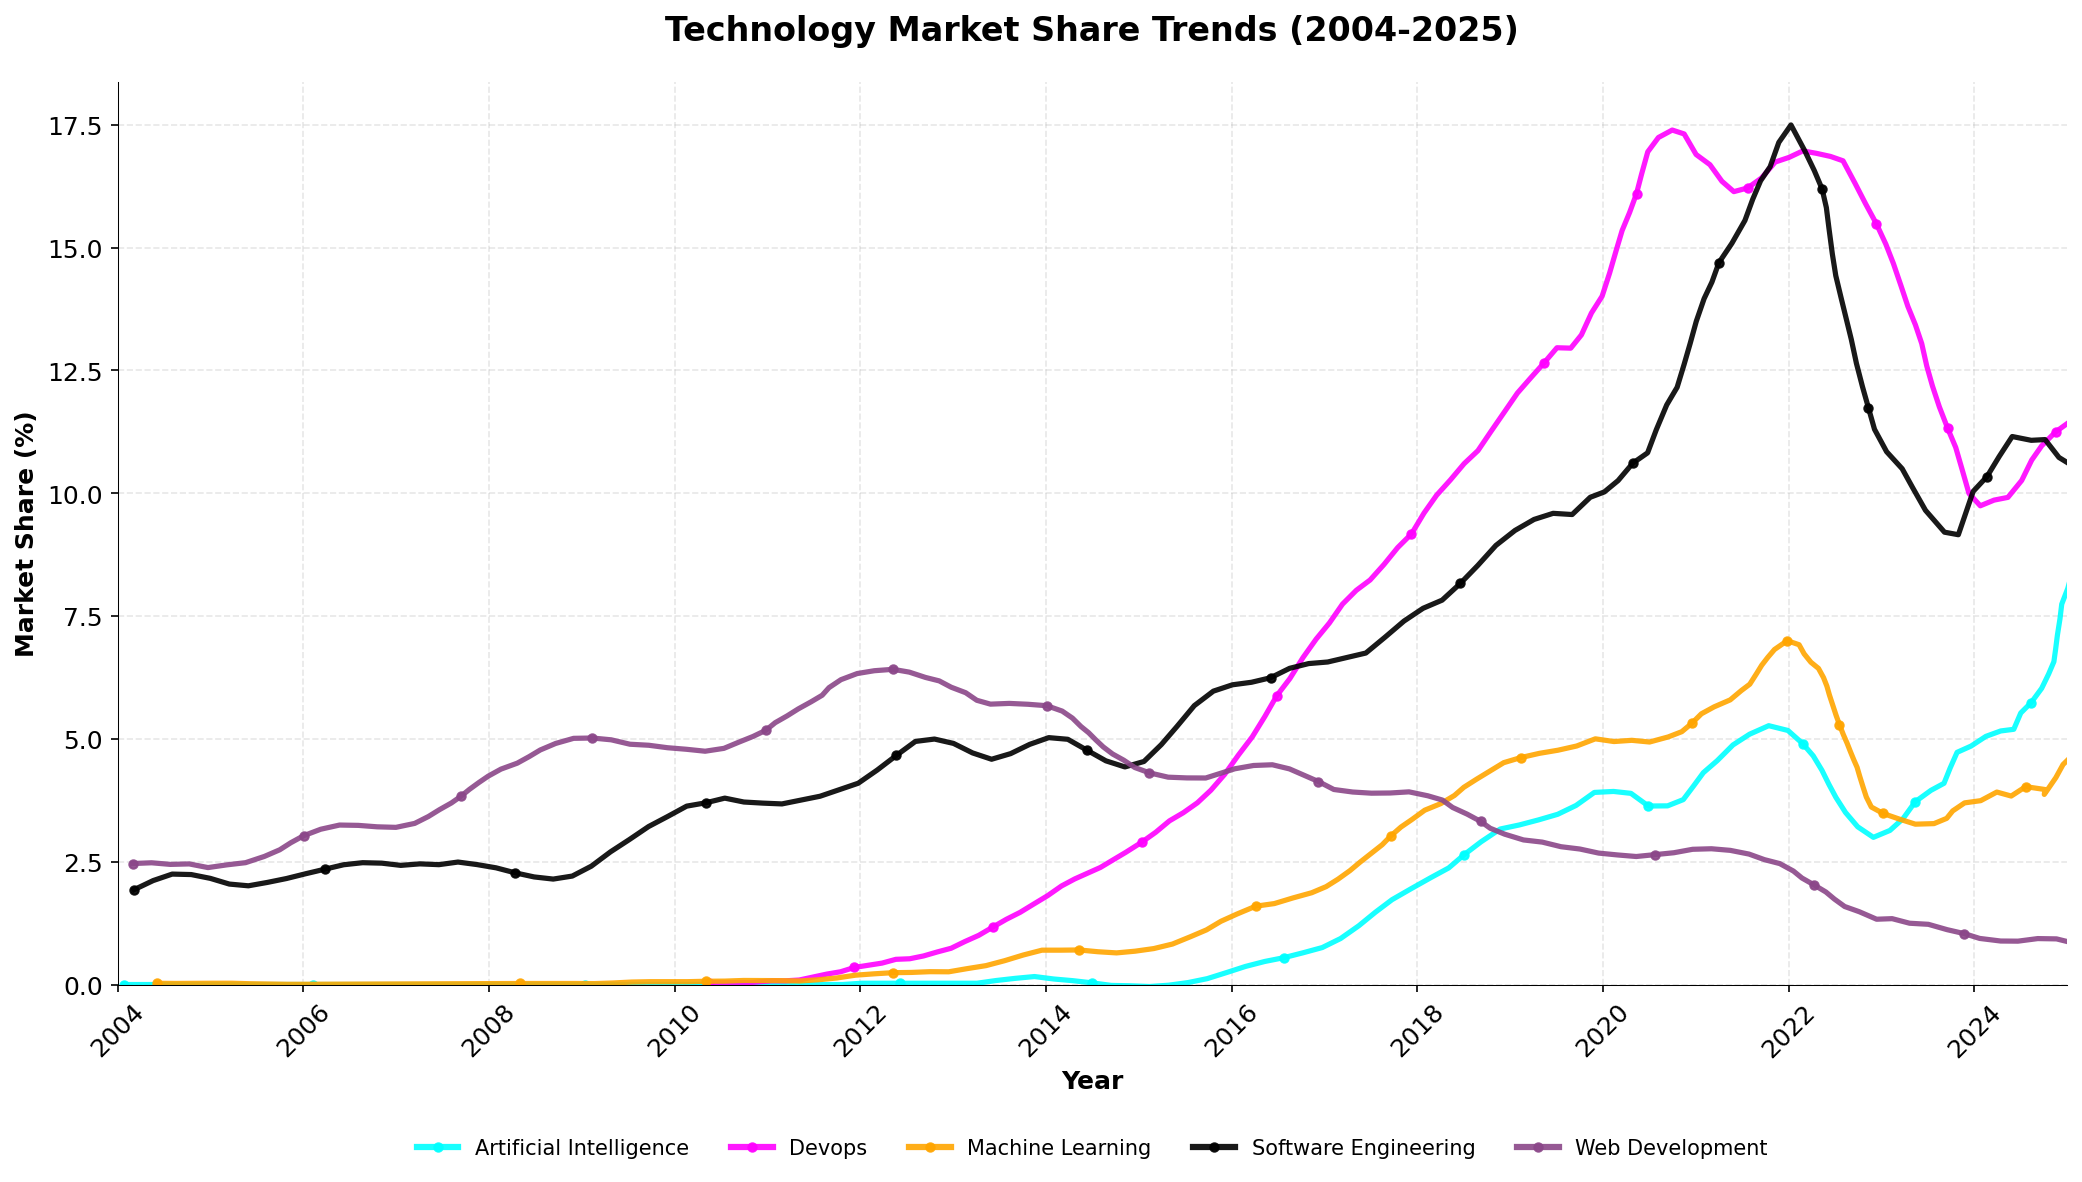
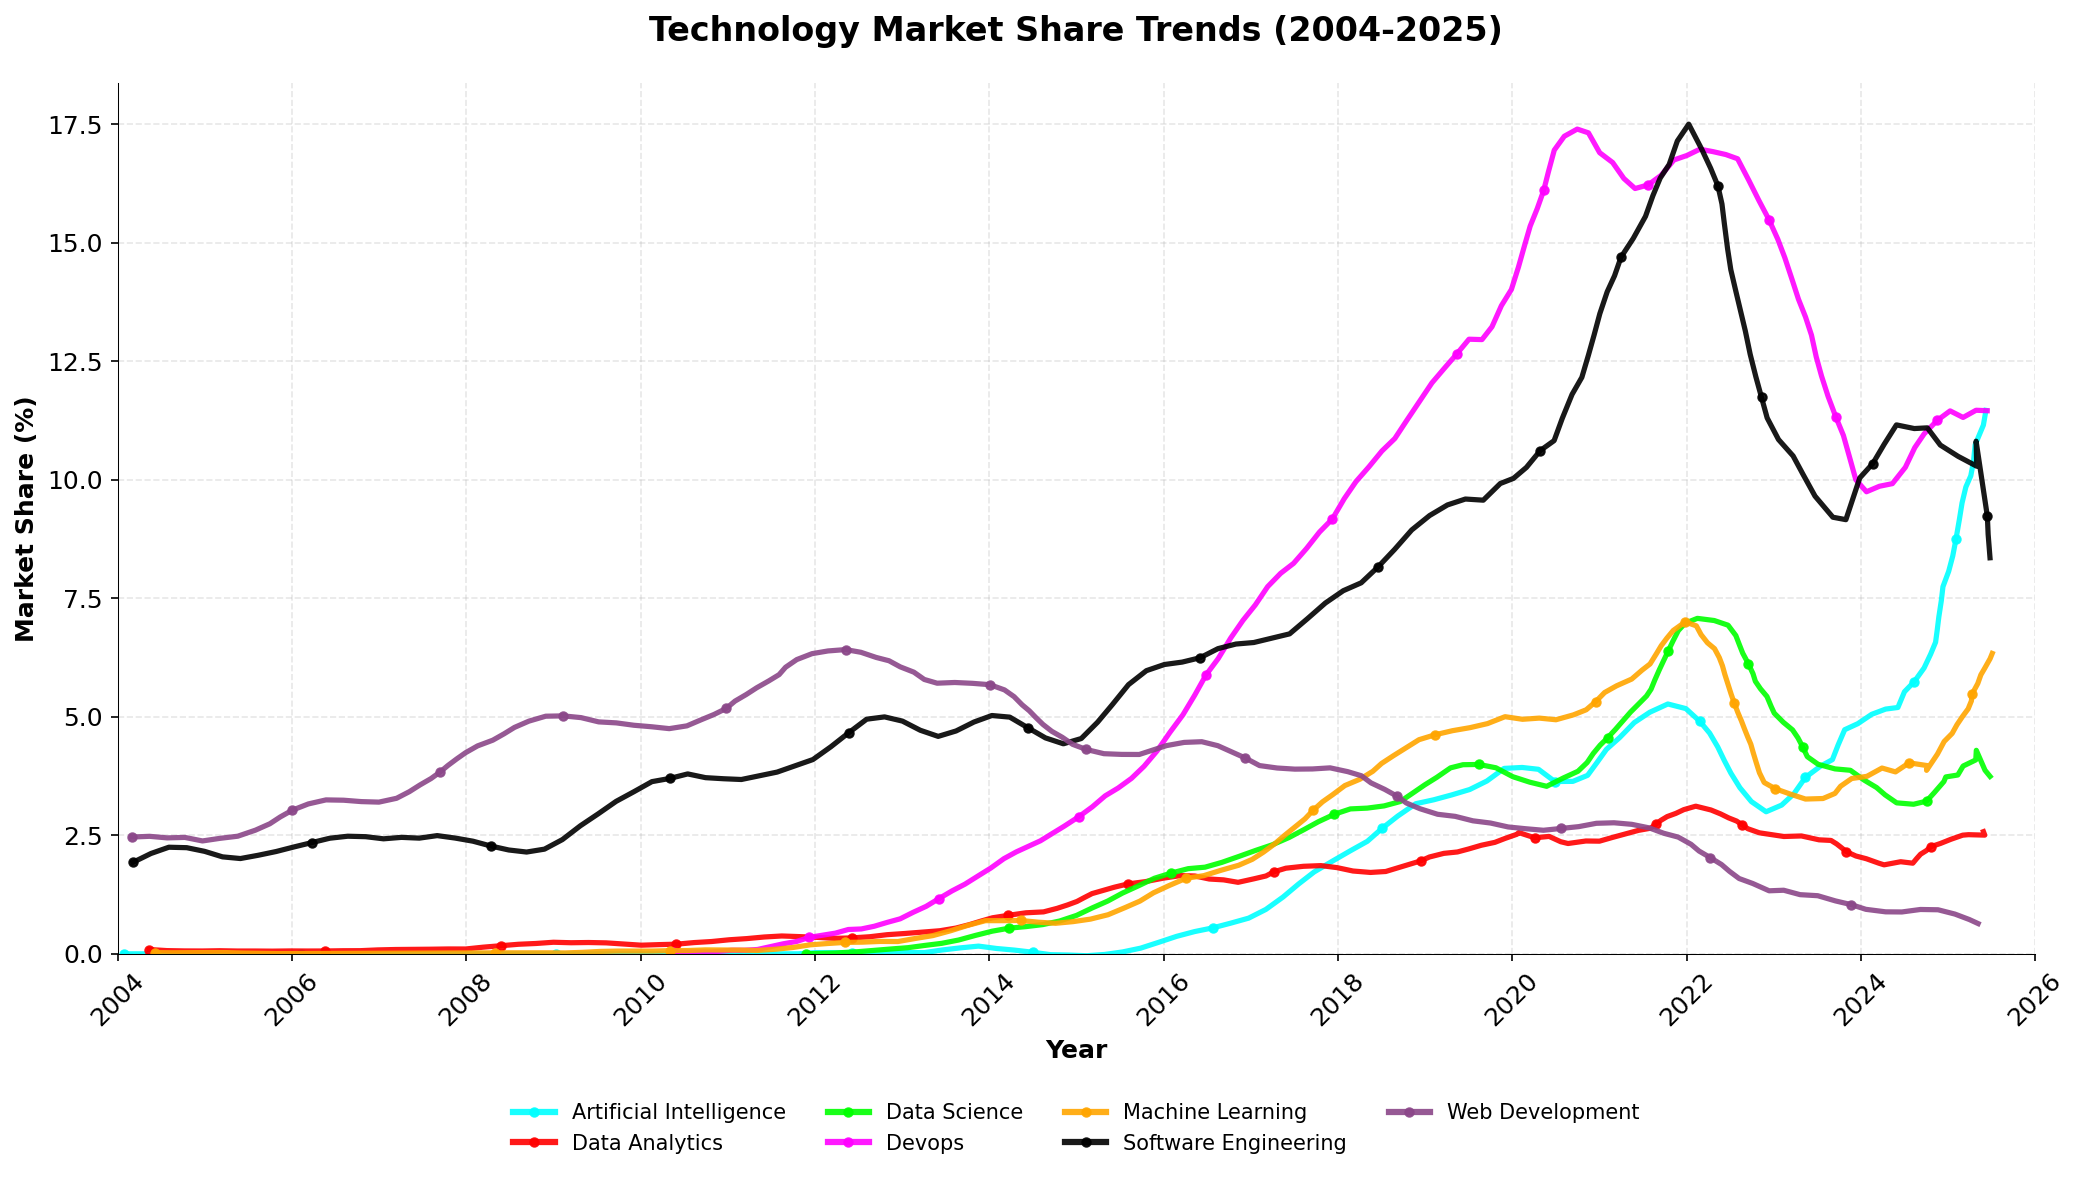
Enhance market share data files by removing outdated entries for C# and Python, and adding new datasets for Data Analytics and Data Science. Updated chart styles and configurations for improved clarity and accuracy.

diff --git a/packages/csv-to-chart/generate_languages_chart.py b/packages/csv-to-chart/generate_languages_chart.py
@@ -1,4 +1,4 @@
-"""Main script to generate market share trend chart."""
+"""Script to generate programming languages market share trend chart."""
 
 import os
 import sys
@@ -8,33 +8,33 @@ from pathlib import Path
 # Add current directory to path for imports
 sys.path.insert(0, str(Path(__file__).parent))
 
-from data_loader import load_all_datasets
+from data_loader import load_language_datasets
 from chart_styles import (
-    get_color_scheme, get_chart_config, style_axes, format_legend
+    get_language_color_scheme, get_chart_config, style_axes, format_legend
 )
 
 
-def create_market_share_chart(datasets, output_path):
-    """Create line chart showing market share trends.
+def create_languages_chart(datasets, output_path):
+    """Create line chart showing programming language market share trends.
     
     Args:
-        datasets: Dictionary of technology names to (years, market_share) data
+        datasets: Dictionary of language names to (years, market_share) data
         output_path: Path to save the output PNG file
     """
     # Get configuration
-    colors = get_color_scheme()
+    colors = get_language_color_scheme()
     config = get_chart_config()
     
     # Create figure and axis
     fig, ax = plt.subplots(figsize=config['figure_size'], dpi=config['dpi'])
     
-    # Plot each technology line
-    for tech_name, (years, market_shares) in datasets.items():
-        color = colors.get(tech_name, '#666666')
+    # Plot each language line
+    for lang_name, (years, market_shares) in datasets.items():
+        color = colors.get(lang_name, '#666666')
         ax.plot(
             years,
             market_shares,
-            label=tech_name,
+            label=lang_name,
             color=color,
             linewidth=config['line_width'],
             marker='o',
@@ -47,7 +47,7 @@ def create_market_share_chart(datasets, output_path):
     ax.set_xlabel('Year', fontsize=config['label_size'], fontweight='bold')
     ax.set_ylabel('Market Share (%)', fontsize=config['label_size'], fontweight='bold')
     ax.set_title(
-        'Technology Market Share Trends (2004-2025)',
+        'Programming Languages Market Share Trends (2004-2025)',
         fontsize=config['title_size'],
         fontweight='bold',
         pad=20
@@ -63,8 +63,18 @@ def create_market_share_chart(datasets, output_path):
     # Set y-axis to start from 0
     ax.set_ylim(bottom=0)
     
-    # Add legend
-    format_legend(ax, config)
+    # Adjust legend for 3 items
+    legend = ax.legend(
+        loc='upper center',
+        bbox_to_anchor=(0.5, -0.15),
+        ncol=3,
+        fontsize=config['legend_size'],
+        frameon=False
+    )
+    
+    # Style legend lines
+    for line in legend.get_lines():
+        line.set_linewidth(3)
     
     # Adjust layout to prevent label cutoff
     plt.tight_layout()
@@ -83,24 +93,24 @@ def main():
     base_dir = Path(__file__).parent.parent.parent
     data_dir = base_dir / 'data' / 'manual' / 'year_market-share'
     output_dir = base_dir / 'docs' / 'market-report'
-    output_path = output_dir / 'technology_market_trends.png'
+    output_path = output_dir / 'programming_languages_trends.png'
     
     # Load data
-    print("Loading CSV data...")
-    datasets = load_all_datasets(str(data_dir))
+    print("Loading language CSV data...")
+    datasets = load_language_datasets(str(data_dir))
     
     if not datasets:
-        print("Error: No data files found!")
+        print("Error: No language data files found!")
         return
     
-    print(f"Loaded {len(datasets)} datasets:")
-    for tech_name in datasets:
-        years, shares = datasets[tech_name]
-        print(f"  - {tech_name}: {len(years)} data points")
+    print(f"Loaded {len(datasets)} language datasets:")
+    for lang_name in datasets:
+        years, shares = datasets[lang_name]
+        print(f"  - {lang_name}: {len(years)} data points")
     
     # Generate chart
-    print("\nGenerating chart...")
-    create_market_share_chart(datasets, str(output_path))
+    print("\nGenerating languages chart...")
+    create_languages_chart(datasets, str(output_path))
     print("Done!")
 
 

diff --git a/packages/csv-to-chart/data_loader.py b/packages/csv-to-chart/data_loader.py
@@ -56,6 +56,8 @@ def load_all_datasets(data_dir: str) -> Dict[str, Tuple[List[float], List[float]
     datasets = {}
     csv_files = [
         'artificial-intelligence.csv',
+        'data-analytics.csv',
+        'data-science.csv',
         'devops.csv',
         'machine-learning.csv',
         'software-engineering.csv',
@@ -67,5 +69,29 @@ def load_all_datasets(data_dir: str) -> Dict[str, Tuple[List[float], List[float]
         if os.path.exists(file_path):
             tech_name = csv_file.replace('.csv', '').replace('-', ' ').title()
             datasets[tech_name] = load_csv_data(file_path)
+            
+    return datasets
+
+
+def load_language_datasets(data_dir: str) -> Dict[str, Tuple[List[float], List[float]]]:
+    """Load programming language CSV files from the data directory.
+    
+    Args:
+        data_dir: Directory containing CSV files
+        
+    Returns:
+        Dictionary mapping language names to (years, market_share) tuples
+    """
+    datasets = {}
+    language_files = [
+        ('csharp.csv', 'C#'),
+        ('python.csv', 'Python'),
+        ('typescript.csv', 'TypeScript')
+    ]
+    
+    for csv_file, display_name in language_files:
+        file_path = os.path.join(data_dir, csv_file)
+        if os.path.exists(file_path):
+            datasets[display_name] = load_csv_data(file_path)
             
     return datasets

diff --git a/packages/csv-to-chart/chart_styles.py b/packages/csv-to-chart/chart_styles.py
@@ -11,10 +11,25 @@ def get_color_scheme() -> Dict[str, str]:
     """
     return {
         'Artificial Intelligence': '#00FFFF',  # Cyan
+        'Data Analytics': '#FF0000',           # Red
+        'Data Science': '#00FF00',             # Green
         'Devops': '#FF00FF',                  # Magenta  
-        'Machine Learning': '#FFA500',         # Yellow
+        'Machine Learning': '#FFA500',         # Orange
         'Software Engineering': '#000000',     # Black (Key)
         'Web Development': '#8B4789'           # Purple (distinct)
+    }
+
+
+def get_language_color_scheme() -> Dict[str, str]:
+    """Get distinct colors for programming languages.
+    
+    Returns:
+        Dictionary mapping language names to hex colors
+    """
+    return {
+        'C#': '#0000FF',           # Blue
+        'Python': '#FFD700',        # Gold
+        'TypeScript': '#1E3A8A'     # Navy Blue
     }
 
 
@@ -69,7 +84,7 @@ def format_legend(ax, config: Dict) -> None:
     legend = ax.legend(
         loc='upper center',
         bbox_to_anchor=(0.5, -0.15),
-        ncol=5,
+        ncol=4,
         fontsize=config['legend_size'],
         frameon=False
     )
